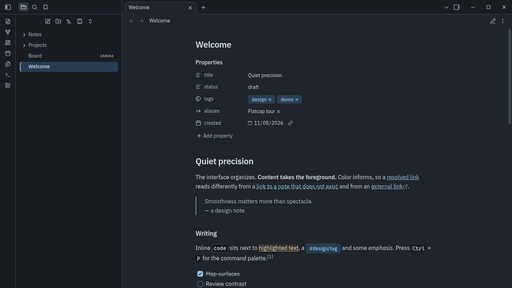
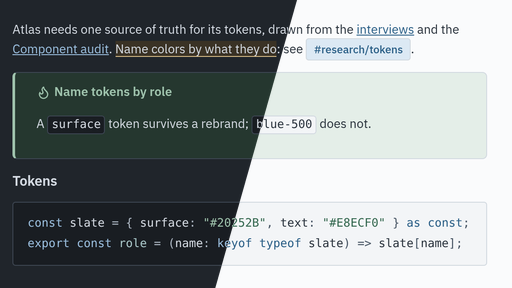
feat: richer screenshots and community directory prep
- New README hero (Slate/Daylight 2880x1800) from a fuller demo vault
- 512x288 gallery screenshot split Slate/Daylight
- Directory listing images: 5 desktop 1200x800, 2 mobile 900x1600
- Drop !important from the reduced-motion block (theme guidelines)
- Release workflow: tag must match manifest version, draft release
  with manifest.json and theme.css

diff --git a/src/rules.css b/src/rules.css
@@ -561,6 +561,9 @@ mark,
 	animation: fc-fade-in 140ms var(--fc-ease-enter) both;
 }
 
+/* Reduced motion: every transition of the theme runs on --fc-motion-fast, which
+ * the generated block resets to 0ms on <body>; its entrance animations are
+ * cancelled here. Same specificity as the declarations above, later in order. */
 @media (prefers-reduced-motion: reduce) {
 	.modal-bg,
 	.modal,
@@ -568,19 +571,6 @@ mark,
 	.menu,
 	.tooltip,
 	.suggestion-container {
-		animation: none;
-	}
-
-	*,
-	*::before,
-	*::after {
-		transition-duration: 0s !important;
-		transition-delay: 0s !important;
-		scroll-behavior: auto !important;
-	}
-
-	/* Obsidian's springy mobile drawer entrance */
-	.workspace-drawer-tab-options:not(.is-collapsed) .workspace-drawer-tab-options-list .workspace-tab-header {
 		animation: none;
 	}
 }

diff --git a/theme.css b/theme.css
@@ -754,6 +754,9 @@ mark,
 	animation: fc-fade-in 140ms var(--fc-ease-enter) both;
 }
 
+/* Reduced motion: every transition of the theme runs on --fc-motion-fast, which
+ * the generated block resets to 0ms on <body>; its entrance animations are
+ * cancelled here. Same specificity as the declarations above, later in order. */
 @media (prefers-reduced-motion: reduce) {
 	.modal-bg,
 	.modal,
@@ -761,19 +764,6 @@ mark,
 	.menu,
 	.tooltip,
 	.suggestion-container {
-		animation: none;
-	}
-
-	*,
-	*::before,
-	*::after {
-		transition-duration: 0s !important;
-		transition-delay: 0s !important;
-		scroll-behavior: auto !important;
-	}
-
-	/* Obsidian's springy mobile drawer entrance */
-	.workspace-drawer-tab-options:not(.is-collapsed) .workspace-drawer-tab-options-list .workspace-tab-header {
 		animation: none;
 	}
 }

diff --git a/README.md b/README.md
@@ -6,7 +6,7 @@
   <picture>
     <source media="(prefers-color-scheme: dark)" srcset="images/screenshot-slate.png">
     <source media="(prefers-color-scheme: light)" srcset="images/screenshot-daylight.png">
-    <img src="images/screenshot-slate.png" alt="Obsidian with Flatcap: file explorer on the left, a note with properties, a callout, a table and a code block on the right" width="100%">
+    <img src="images/screenshot-slate.png" alt="Obsidian with Flatcap in Slate: file explorer and bookmarks on the left, a research note with properties, a callout, a code block, a table and a checklist, a local graph, and outline and backlinks on the right" width="100%">
   </picture>
 </p>
 
@@ -29,11 +29,15 @@ It is a single `theme.css` with two independently tuned modes. **Slate** is used
 
 ## Install
 
-### From the community directory
+### From the community directory (once listed)
+
+Flatcap is being submitted to the Obsidian community directory. When it appears there:
 
 1. Open **Settings → Appearance**.
 2. Under **Themes**, click **Manage**.
-3. Search for `Flatcap`, click **Install and use**.
+3. Search for `Flatcap` and click **Install and use**.
+
+Until then, use the manual install below.
 
 ### Manually
 
